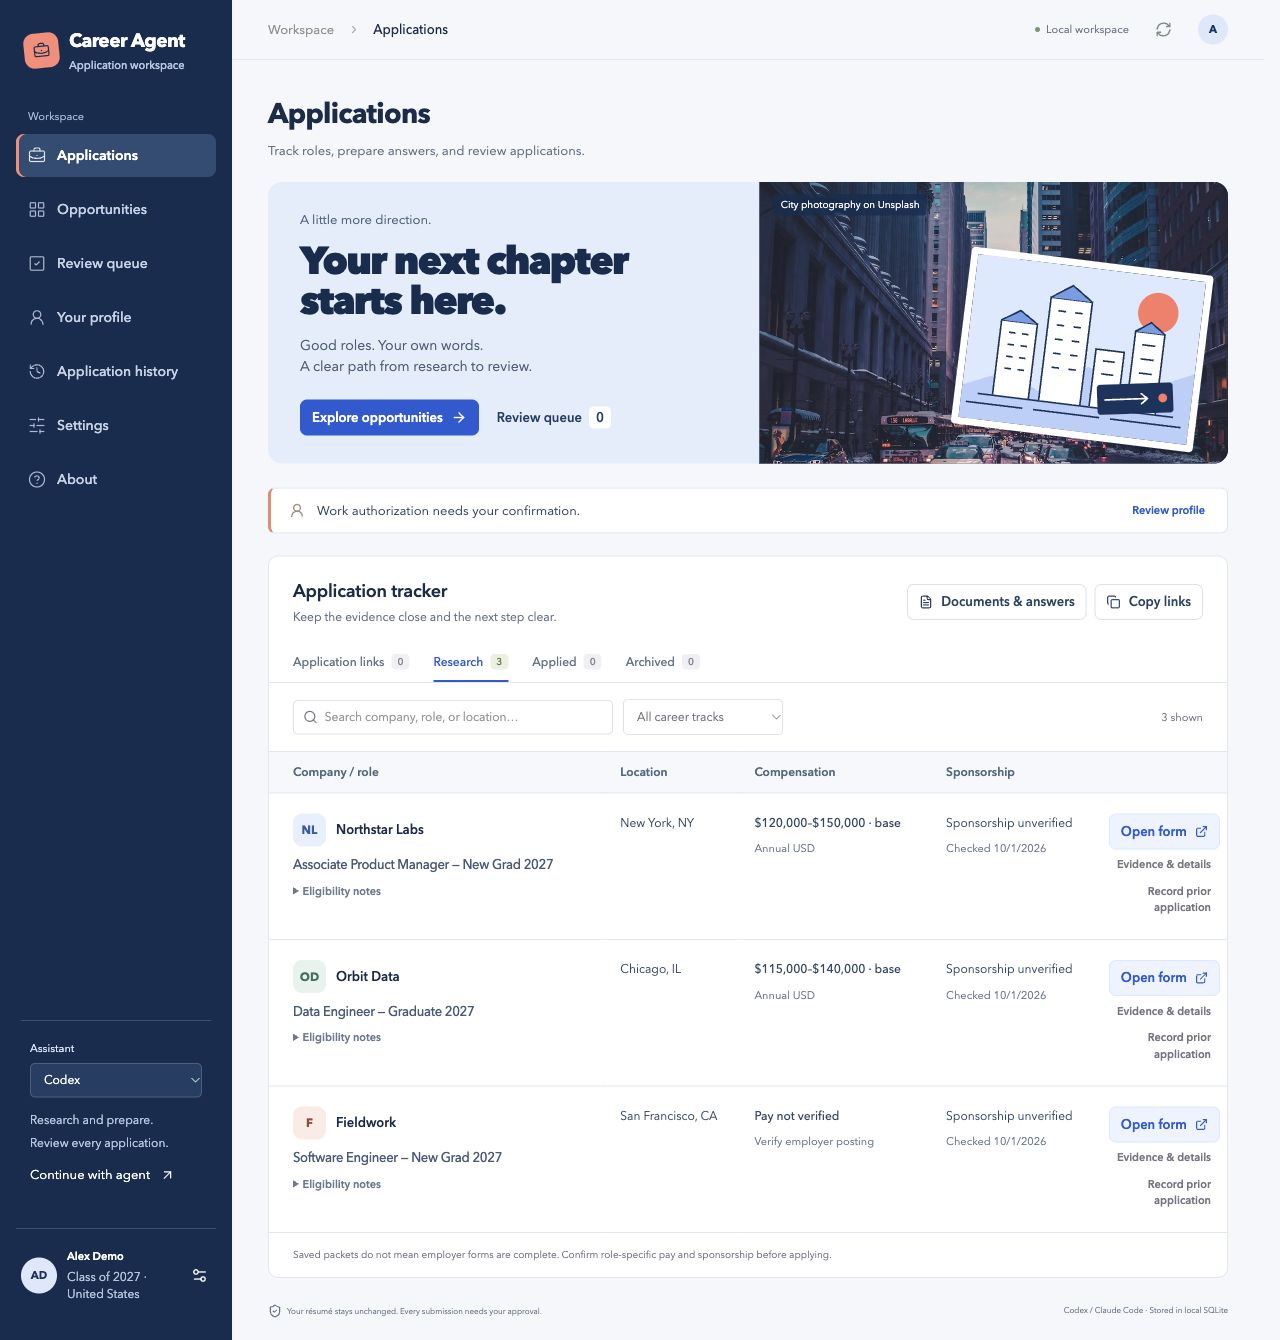
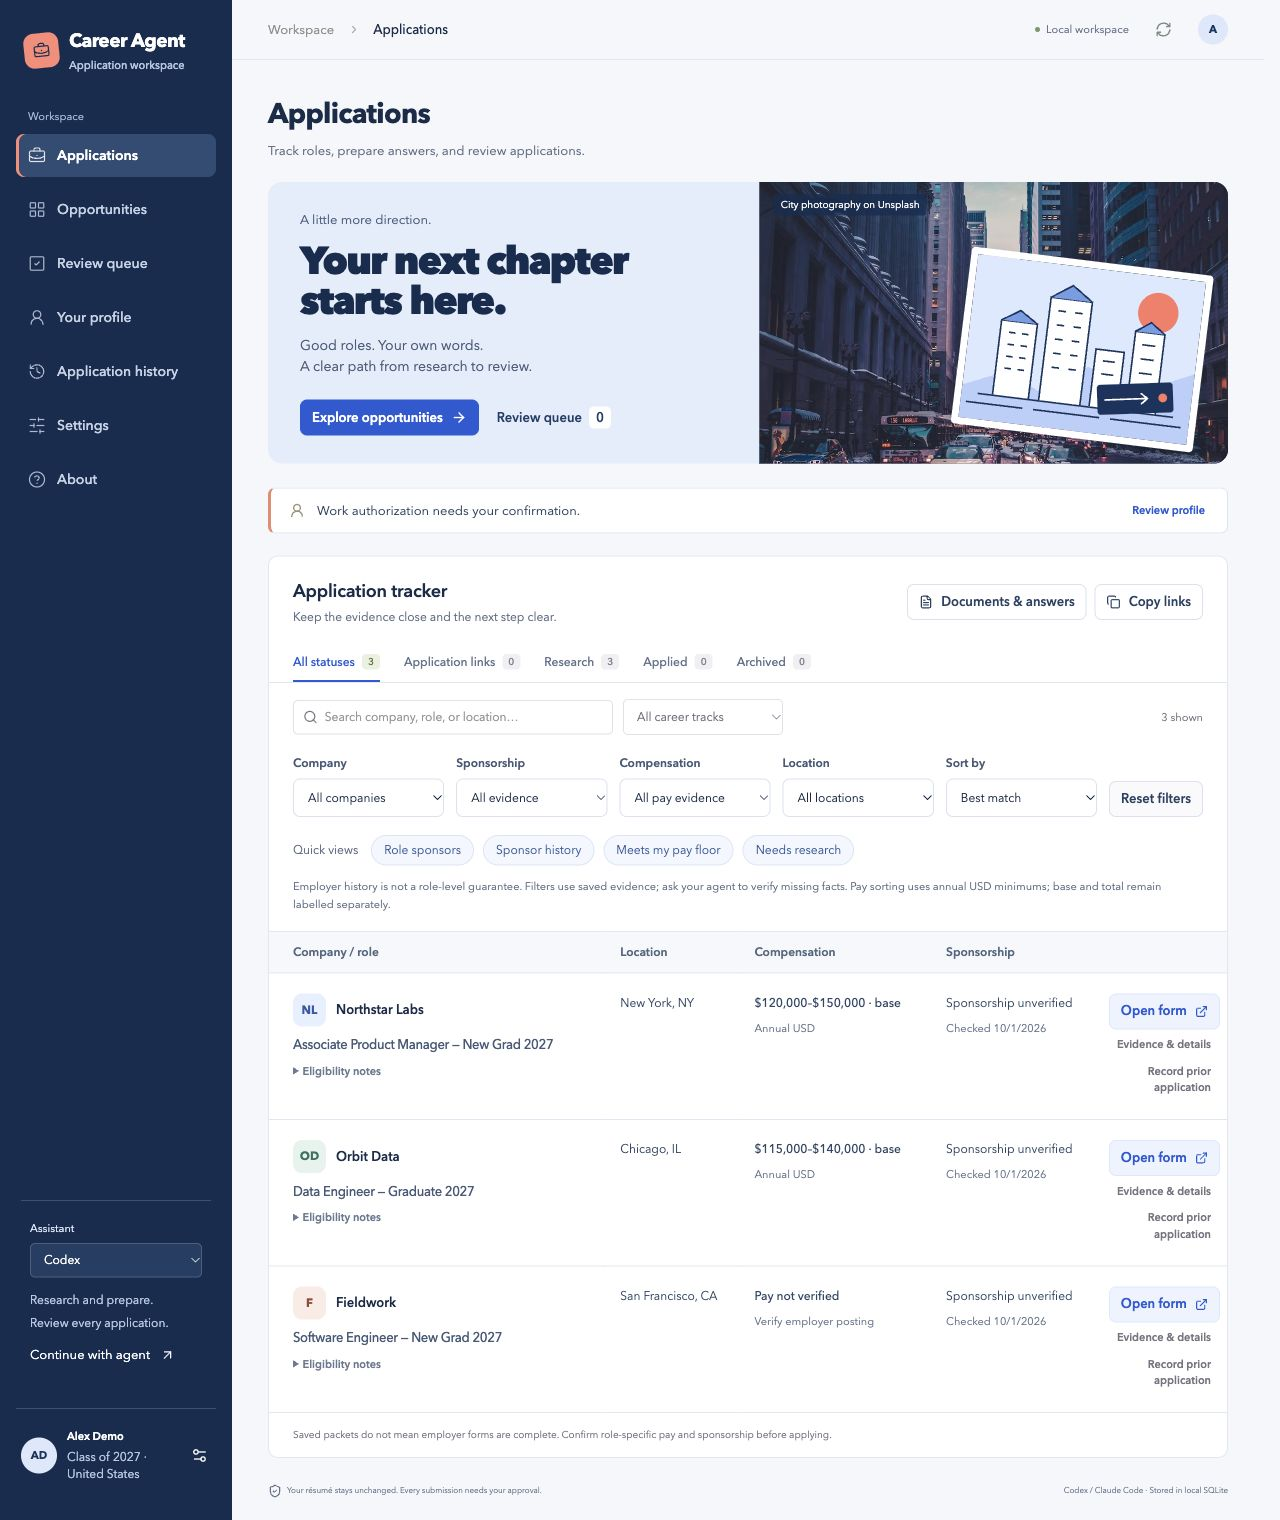
Add built-in company sponsorship and pay filters

diff --git a/src/ApplicationHub.tsx b/src/ApplicationHub.tsx
@@ -7,6 +7,7 @@ import {
   FileText,
   ArrowLeft,
 } from "lucide-react";
+import { annualPay, matchesJobFilters, sponsorshipCategory } from "../shared/jobFilters";
 import type { AppSnapshot, Job } from "../shared/types";
 import {
   applicationGroup,
@@ -40,6 +41,7 @@ function payLabel(job: Job, state: AppSnapshot) {
   return `${amount(pay.min)}${pay.max != null && pay.max !== pay.min ? `–${amount(pay.max)}` : ""} · ${pay.basis === "base" ? "base" : pay.basis === "total" ? "total" : "basis unverified"}`;
 }
 const groups = [
+  ["all", "All statuses"],
   ["active", "Application links"],
   ["research", "Research"],
   ["applied", "Applied"],
@@ -70,18 +72,26 @@ export default function ApplicationHub({
   const [search, setSearch] = useState(
     () => new URLSearchParams(location.search).get("q") || "",
   );
+  const [company, setCompany] = useState(() => new URLSearchParams(location.search).get('company') || 'all');
+  const [place, setPlace] = useState(() => new URLSearchParams(location.search).get('location') || 'all');
+  const [sponsorship, setSponsorship] = useState(() => new URLSearchParams(location.search).get('sponsor') || 'all');
+  const [pay, setPay] = useState(() => new URLSearchParams(location.search).get('pay') || 'all');
+  const [sort, setSort] = useState(() => new URLSearchParams(location.search).get('sort') || 'fit');
+  function resetFilters() { setCompany('all'); setPlace('all'); setSponsorship('all'); setPay('all'); setFamily('all'); setSearch(''); setSort('fit'); }
+  const companies = [...new Set(state.jobs.map(j => j.company))].sort((a,b) => a.localeCompare(b));
+  const locations = [...new Set(state.jobs.map(j => j.location).filter(Boolean))].sort((a,b) => a.localeCompare(b));
   useEffect(() => {
     const u = new URL(location.href);
     for (const [key, value] of [
       ["track", family],
       ["status", filter],
-      ["q", search],
+      ["q", search], ["company", company], ["location", place], ["sponsor", sponsorship], ["pay", pay], ["sort", sort],
     ]) {
       if (value) u.searchParams.set(key, value);
       else u.searchParams.delete(key);
     }
     history.replaceState(null, "", u);
-  }, [family, filter, search]);
+  }, [family, filter, search, company, place, sponsorship, pay, sort]);
   const [answers, setAnswers] = useState("");
   const [message, setMessage] = useState("");
   const [confirmApplied, setConfirmApplied] = useState<string | null>(null);
@@ -91,10 +101,11 @@ export default function ApplicationHub({
         family === "all" ||
         (family === "finance" ? financeRole(j) : j.roleFamily === family),
     )
-    .sort((a, b) => b.score - a.score);
+    .sort((a, b) => sort === "company" ? a.company.localeCompare(b.company) : sort === "pay" ? annualPay(b, state) - annualPay(a, state) : b.score - a.score);
   const visible = jobs.filter(
     (j) =>
-      applicationGroup(j, state) === filter &&
+      (filter === "all" || applicationGroup(j, state) === filter) &&
+      matchesJobFilters(j, state, { company, location: place, sponsorship, pay }) &&
       `${j.company} ${j.title} ${j.location}`
         .toLowerCase()
         .includes(search.toLowerCase()),
@@ -201,7 +212,7 @@ export default function ApplicationHub({
                   {label}
                   <span>
                     {
-                      jobs.filter((j) => applicationGroup(j, state) === id)
+                      jobs.filter((j) => (id === "all" || applicationGroup(j, state) === id) && matchesJobFilters(j, state, {company, location:place, sponsorship,pay}) && `${j.company} ${j.title} ${j.location}`.toLowerCase().includes(search.toLowerCase()))
                         .length
                     }
                   </span>
@@ -238,6 +249,15 @@ export default function ApplicationHub({
                 {visible.length} shown
               </span>
             </div>
+            <div className="advanced-job-filters" aria-label="Application filters">
+              <label>Company<select aria-label="Company filter" value={company} onChange={e => setCompany(e.target.value)}><option value="all">All companies</option>{companies.map(c => <option key={c}>{c}</option>)}</select></label>
+              <label>Sponsorship<select aria-label="Sponsorship filter" value={sponsorship} onChange={e => setSponsorship(e.target.value)}><option value="all">All evidence</option><option value="explicit_yes">Role sponsorship confirmed</option><option value="history_only">Employer history only</option><option value="unknown">Needs research</option><option value="explicit_no">Explicitly unavailable</option></select></label>
+              <label>Compensation<select aria-label="Compensation filter" value={pay} onChange={e => setPay(e.target.value)}><option value="all">All pay evidence</option><option value="verified">Annual USD range available</option><option value="meets">Meets my saved minimum</option><option value="overlap">Range crosses minimum</option><option value="below">Below minimum</option><option value="unknown">Needs research</option></select></label>
+              <label>Location<select aria-label="Location filter" value={place} onChange={e => setPlace(e.target.value)}><option value="all">All locations</option>{locations.map(c => <option key={c}>{c}</option>)}</select></label>
+              <label>Sort by<select aria-label="Sort applications" value={sort} onChange={e => setSort(e.target.value)}><option value="fit">Best match</option><option value="company">Company name</option><option value="pay">Highest annual range minimum</option></select></label>
+              <button className="button secondary" onClick={resetFilters}>Reset filters</button>
+            </div>
+            <div className="filter-presets" aria-label="Quick filters"><span>Quick views</span><button onClick={() => { resetFilters(); setFilter('all'); setSponsorship('explicit_yes'); }}>Role sponsors</button><button onClick={() => { resetFilters(); setFilter('all'); setSponsorship('history_only'); }}>Sponsor history</button><button disabled={!((state.settings.minimumAnnualCompensation ?? 0) > 0)} title="Uses the minimum and base/total basis saved in Settings" onClick={() => { resetFilters(); setFilter('all'); setPay('meets'); }}>Meets my pay floor</button><button onClick={() => { resetFilters(); setFilter('research'); }}>Needs research</button><p>Employer history is not a role-level guarantee. Filters use saved evidence; ask your agent to verify missing facts. Pay sorting uses annual USD minimums; base and total remain labelled separately.</p></div>
             <div className="tracker-scroll">
               <table className="tracker-table">
                 <thead>
@@ -294,21 +314,7 @@ export default function ApplicationHub({
                         </td>
                         <td className="role-policy">
                           <p>
-                            {job.sponsorship.some(
-                              (e) => e.status === "explicit_no",
-                            )
-                              ? "No sponsorship"
-                              : job.sponsorship.some(
-                                    (e) =>
-                                      e.status === "explicit_yes" &&
-                                      e.scope === "role",
-                                  )
-                                ? "Role sponsorship evidence saved"
-                                : job.sponsorship.some(
-                                      (e) => e.status === "history_only",
-                                    )
-                                  ? "Sponsor history; role unconfirmed"
-                                  : "Sponsorship unverified"}
+                            {{ explicit_yes: 'Role sponsorship confirmed', history_only: 'Employer history; role unconfirmed', unknown: 'Sponsorship unverified', explicit_no: 'No sponsorship' }[sponsorshipCategory(job)]}
                           </p>
                           <span className="small-note">
                             Checked{" "}
@@ -386,8 +392,7 @@ export default function ApplicationHub({
                   <Search size={23} />
                   <h3>No applications in this view</h3>
                   <p>
-                    Try another status or career track, clear your search, or
-                    add a role from Opportunities.
+                    Reset the company, sponsorship, pay and location filters, choose another status, or add a role from Opportunities.
                   </p>
                   {search && (
                     <button

diff --git a/tests/job-filters.test.ts b/tests/job-filters.test.ts
@@ -1,0 +1,38 @@
+import test from 'node:test';
+import assert from 'node:assert/strict';
+import { annualPay, matchesJobFilters, sponsorshipCategory } from '../shared/jobFilters';
+import type { AppSnapshot, Job, SponsorshipEvidence } from '../shared/types';
+const now = Date.parse('2026-10-01');
+const evidence = (changes: Partial<SponsorshipEvidence> = {}): SponsorshipEvidence => ({ id:'e', status:'explicit_yes', sourceUrl:'https://example.test/jobs/1', excerpt:'Sponsorship is available for this role.', checkedAt:'2026-09-30', employerName:'Example', scope:'role', entityMatch:true, ...changes });
+const job = (entries: SponsorshipEvidence[] = []): Job => ({ id:'j', company:'Example', location:'Chicago, IL', sponsorship:entries } as Job);
+const filters = { company:'all', location:'all', sponsorship:'all', pay:'all' };
+const state = {settings:{minimumAnnualCompensation:100000},meta:{salaryAssessments:{j:{min:110000,max:130000,currency:'USD',period:'year',basis:'base',status:'meets'}}}} as unknown as AppSnapshot;
+test('sponsorship filters distinguish role support from employer history', () => {
+ assert.equal(sponsorshipCategory(job([evidence()]), now),'explicit_yes');
+ assert.equal(sponsorshipCategory(job([evidence({status:'history_only',scope:'employer'})]),now),'history_only');
+ assert.equal(sponsorshipCategory(job([evidence({scope:'employer'})]),now),'unknown');
+ assert.equal(sponsorshipCategory(job([evidence({status:'explicit_no'})]),now),'explicit_no');
+});
+test('unmatched, stale, unsourced and future evidence stays unknown', () => {
+ for(const change of [{entityMatch:false},{employerName:'Other'},{checkedAt:'2020-01-01'},{sourceUrl:'javascript:alert(1)'},{excerpt:''},{checkedAt:'2028-01-01'}]) assert.equal(sponsorshipCategory(job([evidence(change)]),now),'unknown');
+});
+test('company, location and compensation filters combine without mutating records', () => {
+ const before=JSON.stringify(state);
+ assert.equal(matchesJobFilters(job(),state,{...filters,company:'Example',location:'Chicago, IL',pay:'meets'}),true);
+ assert.equal(matchesJobFilters(job(),state,{...filters,company:'Other'}),false);
+ assert.equal(matchesJobFilters(job(),state,{...filters,location:'Remote'}),false);
+ assert.equal(matchesJobFilters(job(),state,{...filters,pay:'unknown'}),false);
+ assert.equal(JSON.stringify(state),before);
+ const noFloor={...state,settings:{...state.settings,minimumAnnualCompensation:0}};
+ assert.equal(matchesJobFilters(job(),noFloor,{...filters,pay:'meets'}),false);
+});
+test('missing pay stays unknown and hourly or non-USD ranges cannot rank as annual USD', () => {
+ const missing={...state,meta:{...state.meta,salaryAssessments:{}}};
+ assert.equal(matchesJobFilters(job(),missing,{...filters,pay:'unknown'}),true);
+ assert.equal(annualPay(job(),state),110000);
+ for(const change of [{period:'hour'},{currency:'EUR'},{basis:'unknown'}]) {
+  const modified={...state,meta:{...state.meta,salaryAssessments:{j:{...state.meta.salaryAssessments!.j,...change}}}} as AppSnapshot;
+  assert.equal(annualPay(job(),modified),-1);
+  assert.equal(matchesJobFilters(job(),modified,{...filters,pay:'verified'}),false);
+ }
+});

diff --git a/shared/jobFilters.ts b/shared/jobFilters.ts
@@ -1,0 +1,31 @@
+import type { AppSnapshot, Job, SponsorshipStatus } from './types';
+
+/** Employer history is evidence for research, never a role-level promise. */
+export function sponsorshipCategory(job: Job, now = Date.now()): SponsorshipStatus {
+ const entity = (value: string) => value.toLowerCase().replace(/[^a-z0-9]/g, '');
+ const evidence = job.sponsorship.filter(e => {
+  let validUrl = false;
+  try { validUrl = ['http:', 'https:'].includes(new URL(e.sourceUrl).protocol); } catch {}
+  const age = now - Date.parse(e.checkedAt);
+  return e.entityMatch && entity(e.employerName) === entity(job.company) && validUrl && e.excerpt.trim() && age >= 0 && age <= (e.scope === 'role' ? 180 : 730) * 86400000;
+ });
+ if (evidence.some(e => e.status === 'explicit_no')) return 'explicit_no';
+ if (evidence.some(e => e.status === 'explicit_yes' && e.scope === 'role')) return 'explicit_yes';
+ if (evidence.some(e => e.status === 'history_only' && e.scope === 'employer')) return 'history_only';
+ return 'unknown';
+}
+export interface JobFilters { company: string; location: string; sponsorship: string; pay: string }
+export function matchesJobFilters(job: Job, state: AppSnapshot, filters: JobFilters) {
+ const pay = state.meta.salaryAssessments?.[job.id];
+ let payMatches = true;
+ if (filters.pay === 'verified') payMatches = pay?.period === 'year' && pay.currency === 'USD' && pay.min != null && pay.basis !== 'unknown';
+ else if (filters.pay !== 'all') payMatches = (pay?.status || 'unknown') === filters.pay && (filters.pay !== 'meets' || (state.settings.minimumAnnualCompensation ?? 0) > 0);
+ return (filters.company === 'all' || job.company === filters.company)
+  && (filters.location === 'all' || job.location === filters.location)
+  && (filters.sponsorship === 'all' || sponsorshipCategory(job) === filters.sponsorship)
+  && payMatches;
+}
+export function annualPay(job: Job, state: AppSnapshot) {
+ const pay = state.meta.salaryAssessments?.[job.id];
+ return pay?.period === 'year' && pay.currency === 'USD' && pay.basis !== 'unknown' ? pay.min ?? -1 : -1;
+}

diff --git a/src/styles.css b/src/styles.css
@@ -4376,3 +4376,14 @@ a:focus-visible,button:focus-visible,input:focus-visible,select:focus-visible,te
 .tracker-table .hub-actions .button.text { white-space:normal; overflow-wrap:anywhere; max-width:100%; line-height:1.5; text-align:right; padding-right:0; }
 .hub-actions .button.secondary { color:#235ad6; background:#edf3ff; border-color:#dbe7ff; }
 .hub-footnote { padding:14px 24px; }
+
+.advanced-job-filters { display:grid; grid-template-columns:repeat(5,minmax(0,1fr)) auto; gap:12px; padding:4px 24px 18px; align-items:end; }
+.advanced-job-filters label { display:flex; flex-direction:column; gap:7px; font-size:12px; font-weight:600; color:#465b78; min-width:0; }
+.advanced-job-filters select { font-size:12px; padding:9px 26px 9px 10px; font-weight:400; border-color:#d9e2ef; }
+.filter-presets { display:flex; gap:9px; flex-wrap:wrap; align-items:center; padding:0 24px 18px; }
+.filter-presets span { color:#637189; font-size:12px; margin-right:4px; }
+.filter-presets button { border:1px solid #dbe5f6; background:#f3f7ff; border-radius:16px; padding:6px 12px; color:#315a9b; font-size:12px; }
+.filter-presets button:hover:not(:disabled) { background:#e4edff; }
+.filter-presets p { flex-basis:100%; font-size:11px; line-height:1.6; color:#637189; margin-top:3px; }
+@media(max-width:1200px) { .advanced-job-filters { grid-template-columns:repeat(3,minmax(0,1fr)); } }
+@media(max-width:620px) { .advanced-job-filters { grid-template-columns:repeat(2,minmax(0,1fr)); padding:4px 18px 18px; } .filter-presets { padding:0 18px 18px; } .desk-list .tab-row { overflow-x:auto; } }

diff --git a/docs/UI_DESIGN.md b/docs/UI_DESIGN.md
@@ -33,3 +33,11 @@ The About portrait remains hosted by BanterBoost with separate attribution. No t
 ## Verification
 
 The preview uses fictional records and reserved example URLs. Verify search, role filters, empty results, document navigation, header shortcuts and review controls separately from external employer form compatibility.
+
+## Built-in job filters
+
+Company and location options come from the saved job list. Sponsorship filters distinguish recent, sourced role evidence from employer history, unavailable sponsorship, and unknown facts. Mismatched, future-dated, stale, or unsourced evidence never counts as confirmed sponsorship. Employer history does not imply eligibility.
+
+Compensation filters use the saved assessment and the user's selected minimum and base/total basis. Annual USD range sorting uses each range's minimum, places unknown/hourly/non-USD values last, and preserves basis labels; it does not equate base and total compensation. The pay-floor shortcut is disabled until a positive minimum is saved.
+
+Quick views select role sponsors, employer history, pay-floor matches, or research. All-status view allows browsing excluded or previously applied jobs without making them eligible. Search, company, location, sponsorship, pay, sort, track and status persist in the URL. Reset clears narrowing filters while retaining the status view. These controls filter saved records locally and never connect accounts, start agent work or authorize submissions.

diff --git a/README.md b/README.md
@@ -31,6 +31,7 @@ The dashboard is the system of record. Codex or Claude Code handles research and
 
 | Capability | How it works |
 |---|---|
+| Filter saved roles | Company, location, sponsorship evidence, compensation, career track, and status; built-in quick views and sorting |
 | Discover opportunities | Read public Greenhouse, Lever, and Ashby job feeds; import sourced manual postings |
 | Keep a factual profile | Save confirmed experience and exact reusable answers with provenance |
 | Compare compensation | Check annual USD base or total pay against your selected floor; keep ambiguous ranges in research |
